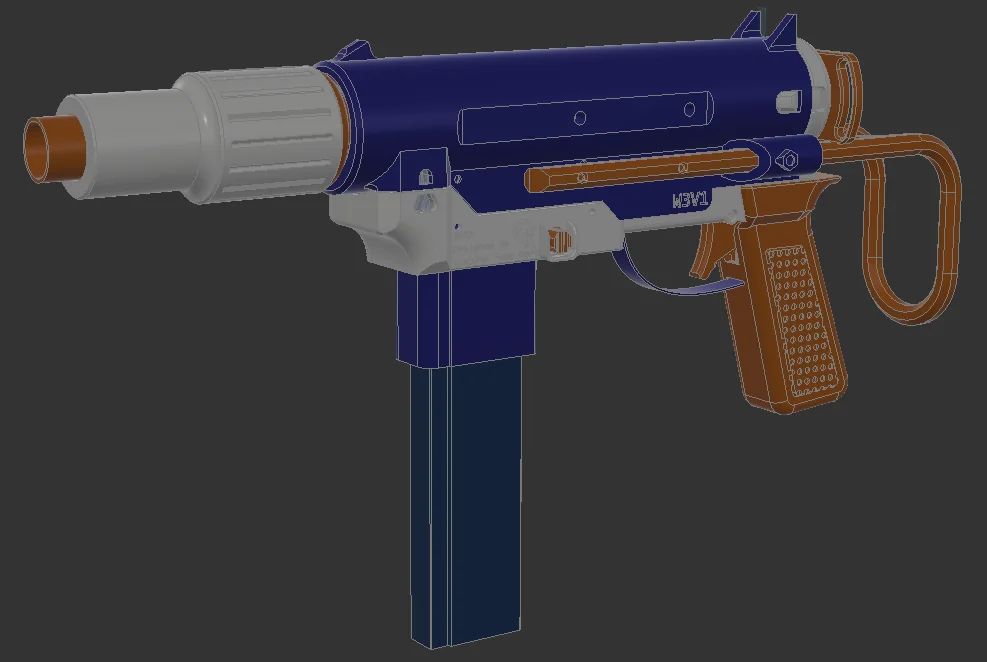
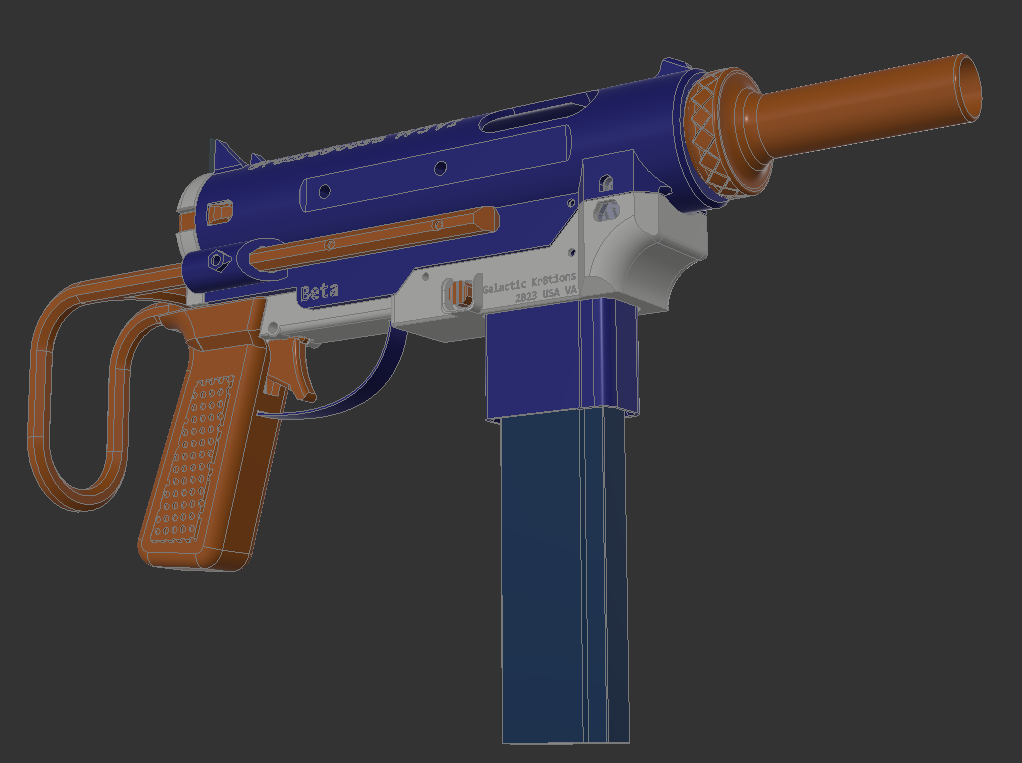
Updated landing page.

diff --git a/README.md b/README.md
@@ -1,7 +1,7 @@
 # GreaseGoose BETA
 A FlyCore-Based Full Auto Electric Foam Blaster
 
-<img src="beta.png" width="500">
+<img src="beta.png" width="500">beta-optional
 
 ## Overview
 
@@ -13,9 +13,14 @@ Find me on Discord at GalaxyCr8r#6911 (You may need to join r/nerf, OFD, or Flux
 
 Uses the excellent FlyCore platform: https://github.com/oldfieldadamg/OFD_Flycore_Straight
 
+### Options
+
+<img src="beta-optional.png" width="400">
+Shown with the BCAR and N-Strike-compatible stock attachment point. Not shown: front and rear sling mounts.
+
 ## Bill of Materials
 
- - FTW FlyCore
+ - FTW- or Nightningale-compatible FlyCore
    - (2) 130 motors
    - (1) N20 Pusher Motor of your choice! (300- 3000rpm)
    - (4) m2x5mm motor screws
@@ -31,9 +36,9 @@ Uses the excellent FlyCore platform: https://github.com/oldfieldadamg/OFD_Flycor
  - (1) M3x25mm
  - (2) M3x16mm
  - (6) M3x10mm
- - (2) M3x8mm
- - (2) M3x6mm
- - (2) M3 Threaded Heat-Set Inserts
+ - (2-4) M3x8mm
+ - (2-3) M3x6mm
+ - (3-5) M3 Threaded Heat-Set Inserts
  - Optional Parts:
    - BCAR Muzzle:
       - (9) 3x7x3 F683ZZ flanged bearings
